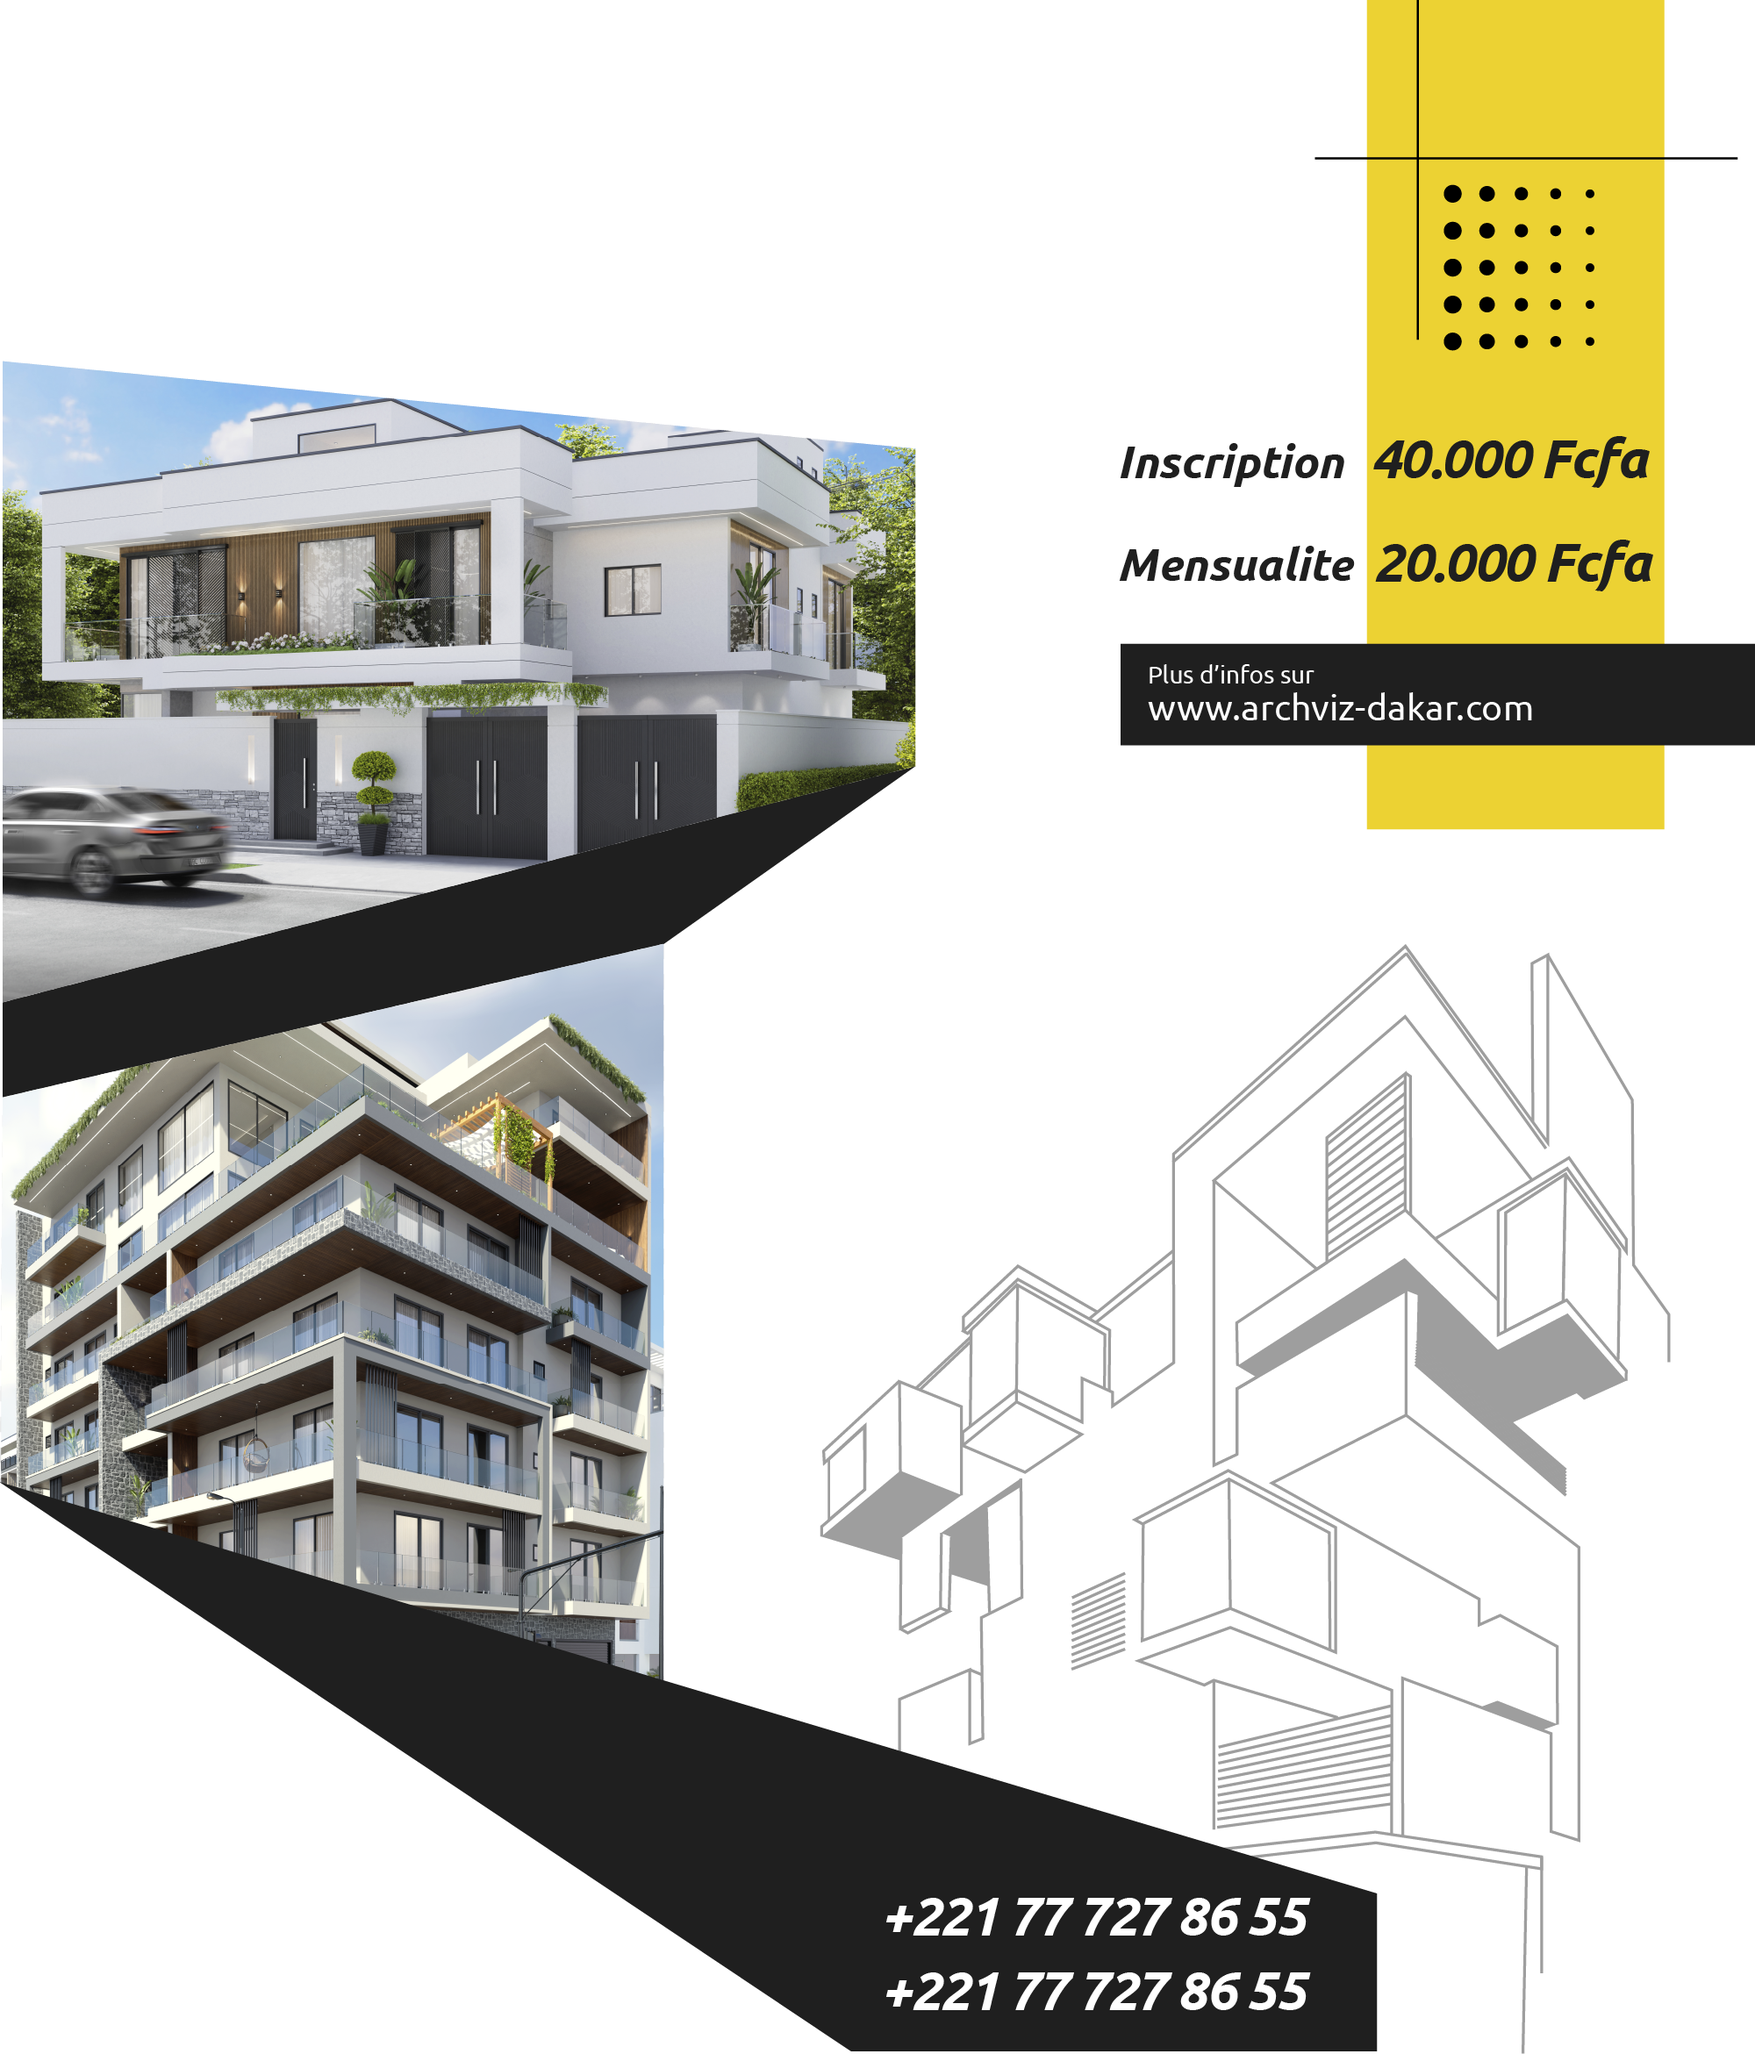
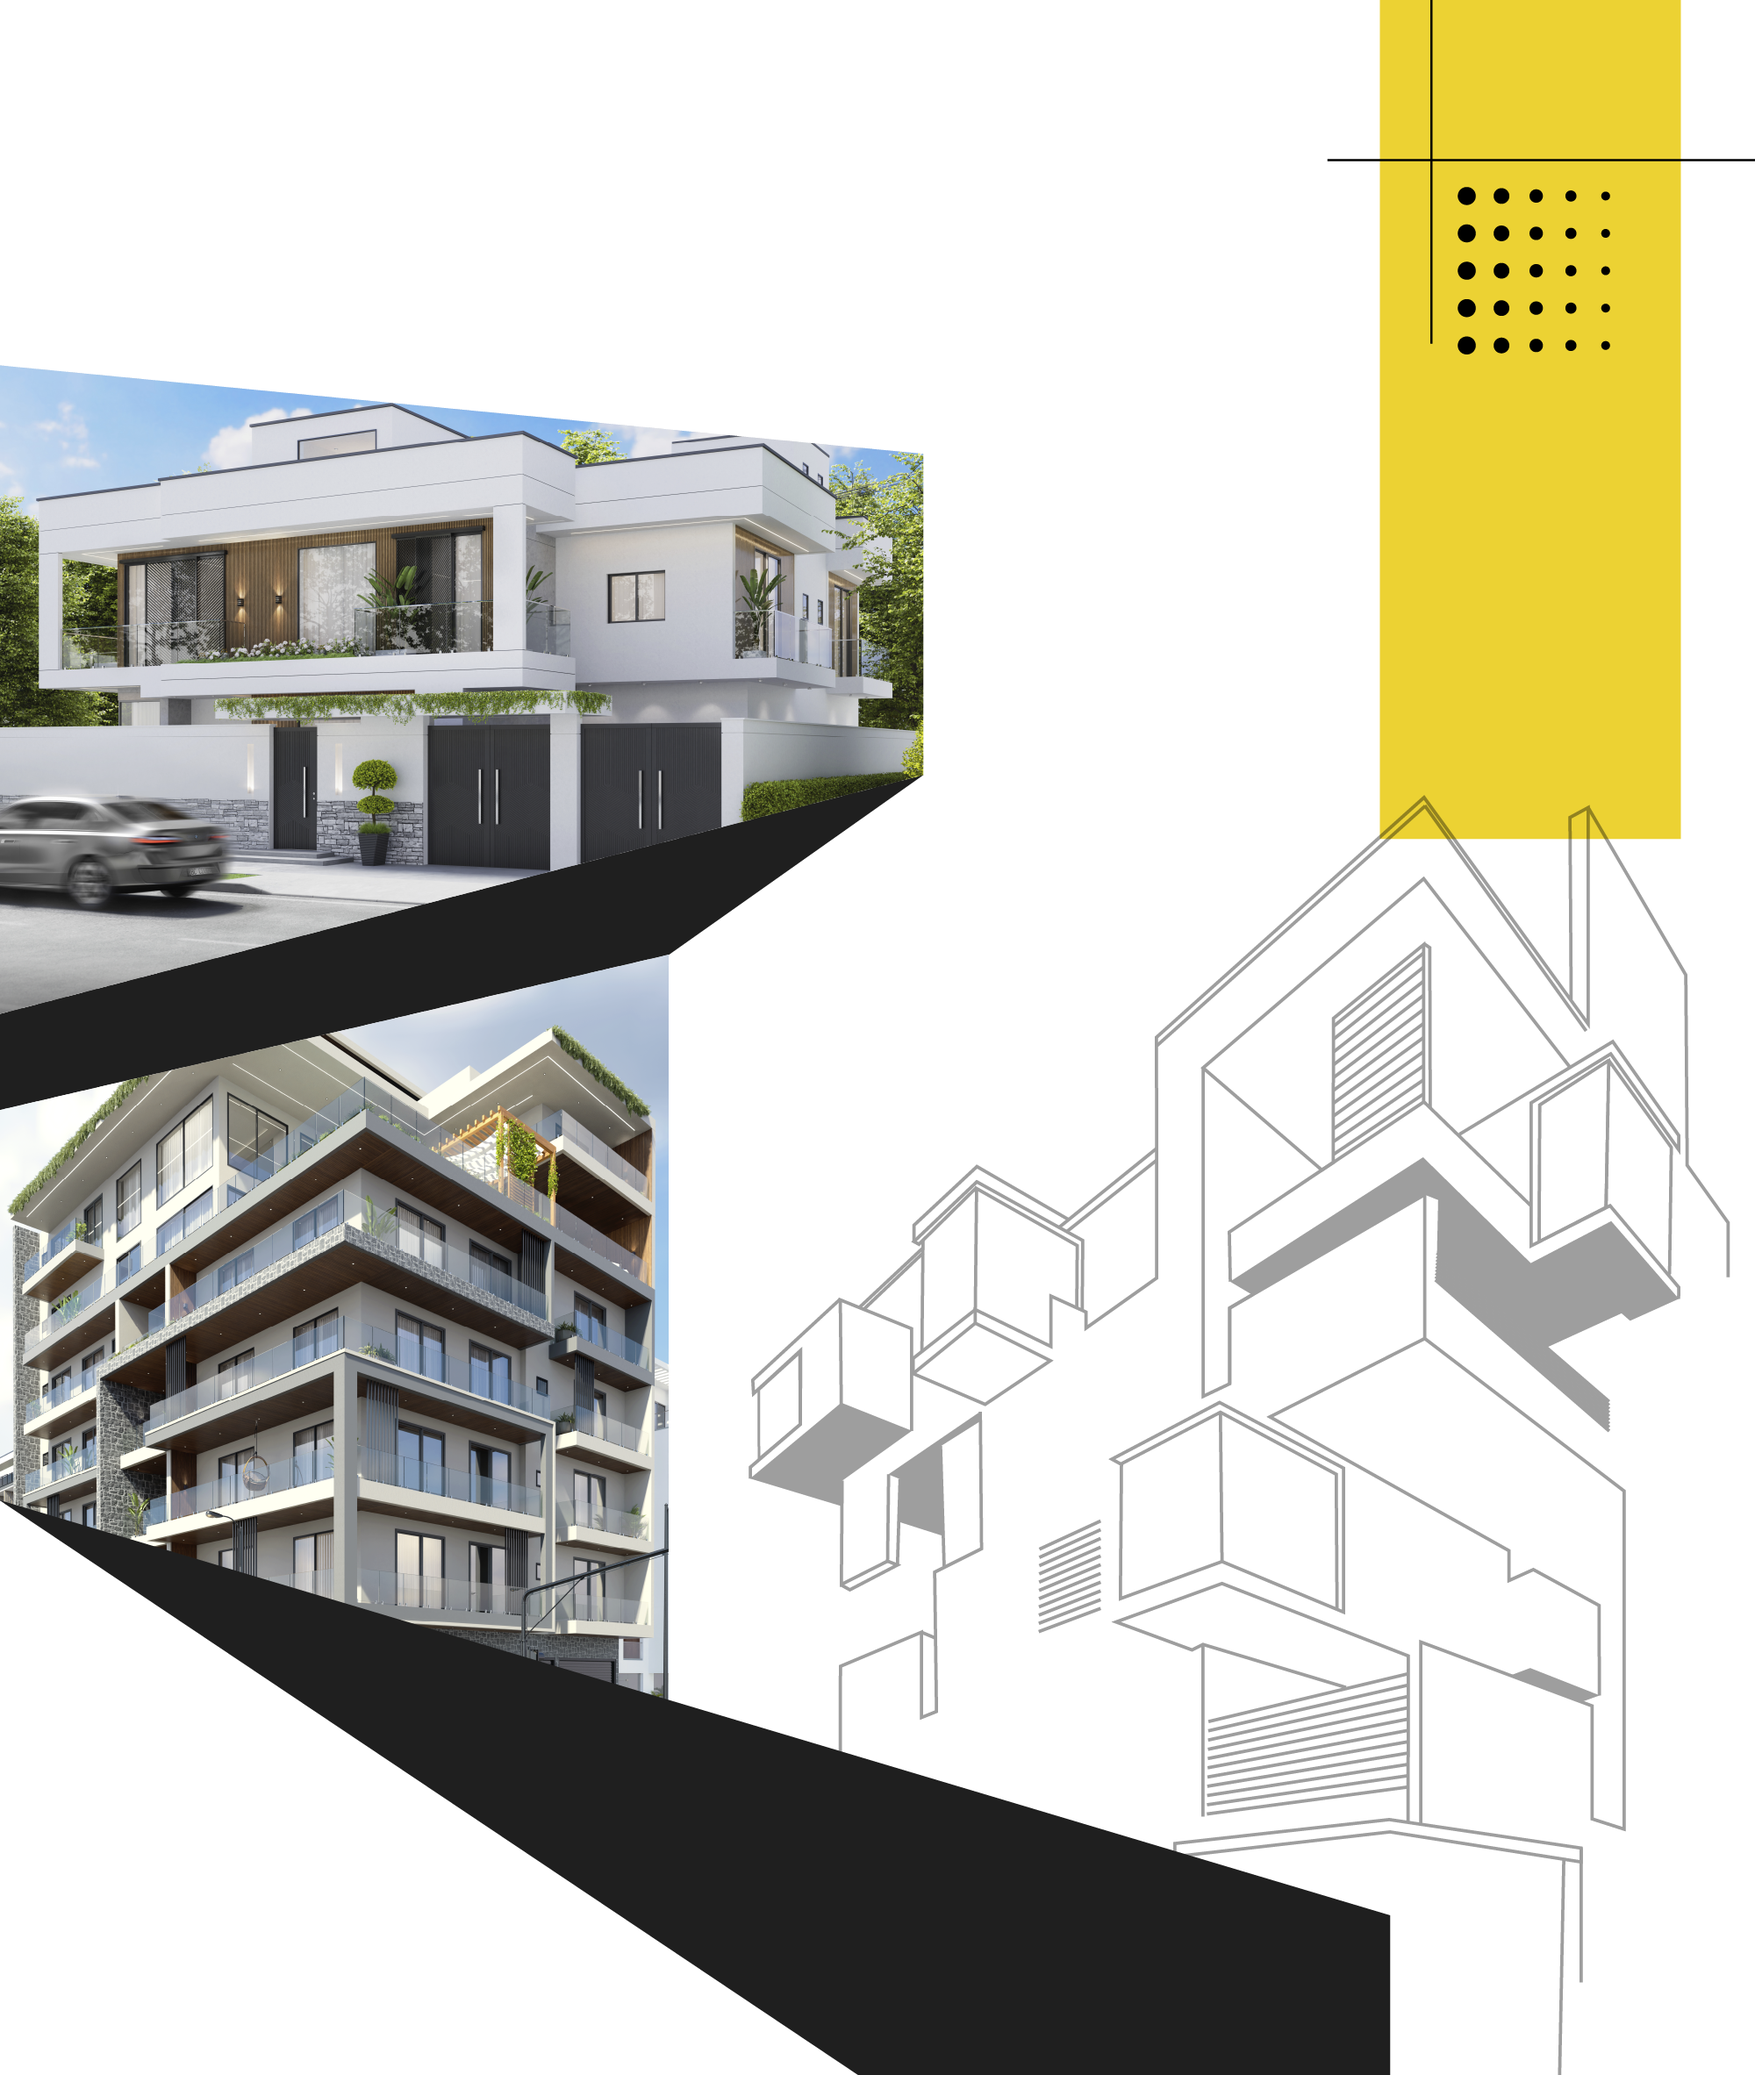
testing commit7

diff --git a/src/main/Pages/Projects/Formation.js b/src/main/Pages/Projects/Formation.js
@@ -36,25 +36,27 @@ function SmallHouse1({ }) {
 
                 <div className='formation_section_1'>
                     <img src={ImageFormation1} width='100%' />
-                    <h1 className='project_title'>
-                        Formation en 3D
+                     <h1 className='project_title'>
+                         Formation en 3D
+                     </h1>   
+
+                     <h1 className='project_title-2'>
+                         Architecture visualisation
                     </h1>
-                    <h1 className='project_title-2'>
-                        Architecture visualisation
-                    </h1>
-                    <pre className='prix prix-Ins' >
-                        <em>Inscription</em> 50.000 Fcfa
+
+                    <pre className='link'>
+                        <em>
+                        Voir Réalisation Sur
+                        </em>
+                        <br />
+                        www.archviz-dakar.com
                     </pre>
-                    <pre className='prix prix-Mens' >
-                        <em>Mensualite</em> 25.000 Fcfa
+                 
+                    <pre className='phone'>
+                        +221777278655 <br/>
+                        +221777278655
                     </pre>
-                    <pre className='Link' >
-                        <em>Voir Realisation</em> 25.000 Fcfa
-                    </pre>
-                    <pre className='Link' >
-                        +221 77 727 86 55
-                        +221 77 727 86 55
-                    </pre>
+
                 </div>
                 <div className='formation_section_2'>
                     <img src={ImageFormation2} width='100%' />
@@ -62,7 +64,7 @@ function SmallHouse1({ }) {
                         Développer <br/>
                         Vos Compétences <br/>
                         En Visualisation <br/>
-                         Architecturale 3D
+                        Architecturale 3D
                     </h1>
                     <p>
                         Une formation complete de 4 mois de comportent <br />
@@ -72,8 +74,7 @@ function SmallHouse1({ }) {
                     </p>
                 </div>
                 <div className='formation_section_3'>
-                    hgghh
-                          </div>
+                </div>
 
 
             </div>
@@ -85,3 +86,98 @@ function SmallHouse1({ }) {
 
 
 export default SmallHouse1;
+// import { React, useEffect, useState, Fragment } from 'react';
+
+// import ImageFormation1 from '../../Style/Images/SVG/Formation-1.png';
+// import ImageFormation2 from '../../Style/Images/SVG/Formation-2.png';
+
+// function SmallHouse1({ }) {
+//     useEffect(() => {
+//         let ToDisplayonBLoade = document.querySelector(".before-loader")
+//         ToDisplayonBLoade.style.display = 'none';
+
+//         let Page_slider = document.querySelector('.page_title_slider')
+//         Page_slider.style.opacity = `0`
+
+//         let AccueilContainer = document.querySelector(".App_container")
+//         AccueilContainer.scrollTop = 0;
+
+//         let hoverLoaderContainer = document.querySelector(".hover_loader_container")
+//         hoverLoaderContainer.style.display = 'flex';
+
+//         setTimeout(function () {
+//             hoverLoaderContainer.style.display = '';
+//         }, 1500);
+
+//         return () => {
+//             Page_slider.style.opacity = `1`;
+//             ToDisplayonBLoade.style.display = 'flex';
+//             AccueilContainer.scrollTop = 0;
+//         }
+//     }, []);
+
+
+//     return (
+//         <Fragment>
+
+//             <div className='Formation'>
+
+//                 <div className='formation_section_1'>
+//                     <img src={ImageFormation1} width='100%' />
+
+//                     <h1 className='project_title'>
+//                         Formation en 3D
+//                     </h1>   
+
+//                     <h1 className='project_title-2'>
+//                         Architecture visualisation
+//                     </h1>
+
+//                     <pre className='prix prix-Ins' >
+//                         <em>Inscription</em> 50.000 Fcfa
+//                     </pre>
+
+//                     <pre className='prix prix-Mens' >
+//                         <em>Mensualite</em> 25.000 Fcfa
+//                     </pre>
+
+//                     <pre className='Link' >
+//                         <em>Plus d’infos sur</em> <br/>
+//                         www.archviz-dakar.com
+//                     </pre>
+
+//                     <pre className='Phone' >
+//                         +221 77 727 86 55 <br/>
+//                         +221 77 727 86 55                                                                                                                                                                                                                                                                                                                                                                                                                                                                                                                                                                                                                                                                                                                                                                                                                                                                                                                                                                                                                                                                ;,
+//                     </pre>
+
+//                 </div>
+//                 <div className='formation_section_2'>
+//                     <img src={ImageFormation2} width='100%' />
+//                     <h1 className='project_title'>
+//                         Développer <br/>
+//                         Vos Compétences <br/>
+//                         En Visualisation <br/>
+//                         Architecturale 3D
+//                     </h1>
+//                     <p>
+//                         Une formation complete de 4 mois de comportent <br />
+//                         des cour live sur Discord un canale question<br />
+//                         ouvert h24 et de resouse gratuit (SetUp logiciels,<br />
+//                         Models 3D , HDRI , PBR . . .)
+//                     </p>
+//                 </div>
+//                 <div className='formation_section_3'>
+                  
+//                           </div>
+
+
+//             </div>
+//         </Fragment>
+//     );
+// }
+
+
+
+
+// export default SmallHouse1;

diff --git a/src/main/Style/_Formation.scss b/src/main/Style/_Formation.scss
@@ -7,58 +7,61 @@
 .Formation {
     display: grid;
 
-    grid-template-rows: auto autoa 100vh;
+    grid-template-rows: auto auto 100vh;
     grid-template-columns: 1fr ;
-    // padding-left: 5vw;
     padding-right: 5vw;
-    // padding-top: 2em;
-    // background-color: salmon;
-    //   @include cent();
 
     .formation_section_1{
-          grid-column: 1;
-  grid-row: 1;
-      
-  font-family: "Ubuntu", sans-serif;
-  font-style: italic;
-        .project_title{
-             font-weight: 900;
+    grid-column: 1;
+    grid-row: 1;
+    font-family: "Ubuntu", sans-serif;
+    font-style: italic;   
+    .project_title{
+    font-weight: 900;
     position: absolute;
-    // width: 50%;
     font-size: 7.5vw;
     left: 5%;
     top: 1.3%;
+
 }
 
                     .project_title-2{
              font-weight: 500;
     position: absolute;
-    // width: 50%;
-    font-size: 4vw;
+    font-size: 3.8vw;
     left: 5%;
     top: 8%;
                     }
-                    .prix{
-                          font-family: "Ubuntu", sans-serif;
-  font-style: italic;
-             font-weight: 900;
+ .phone{
+       font-family: "Ubuntu", sans-serif;
+    font-style: italic;  
+    color: #f1f1f1;
     position: absolute;
+        font-weight: 900;
     font-size: 2.9vw;
-    letter-spacing: -0vw;
-    color: red;
+    left: 50%;
+    top: 91.7%;
+ }
+                    
+ .link{
+    font-family: "Ubuntu", sans-serif;
+    font-style: italic;  
+    color: #f1f1f1;
+    // width: 30vw;
+    position: absolute;
+    font-weight: 500;
+    font-size: 2.1vw;
+    left: 64%;
+    top: 31.2%;
+    background-color: #1F1F1F;
+    padding-left: 1vw;
+    padding-right: 9.5vw;
+    padding-bottom: 0.4vw;
     em{
-        font-size: 2.5vw;
-        
-}
-                    }
-                    .prix-Ins{
-    left: 64.3%;
-    top: 21%;
-                    }
-                    .prix-Mens{
-  left: 64%;
-    top: 26%;
-                    }
+        font-size: 1.5vw;
+
+    }
+ }
                     
     }
 
@@ -72,7 +75,6 @@
              font-weight: 900;
              line-height: 90%;
     position: absolute;
-    // width: 50%;
     font-size: 4.5vw;
     left: 15%;
     top: 13%;
@@ -83,7 +85,6 @@ p{
              font-weight: 900;
              line-height: 100%;
     position: absolute;
-    // width: 50%;
     font-size: 1.6vw;
     left: 15%;
     top: 42%;
@@ -110,9 +111,6 @@ p{
     .Formation {
         padding-left: 0vw;
         padding-right: 0vw;
-
-       
-
     }
 
 }

diff --git a/src/main/Style/Style.css b/src/main/Style/Style.css
@@ -3433,7 +3433,7 @@
 }
 .Formation {
   display: grid;
-  grid-template-rows: auto autoa 100vh;
+  grid-template-rows: auto auto 100vh;
   grid-template-columns: 1fr;
   padding-right: 5vw;
 }
@@ -3453,29 +3453,36 @@
 .Formation .formation_section_1 .project_title-2 {
   font-weight: 500;
   position: absolute;
-  font-size: 4vw;
+  font-size: 3.8vw;
   left: 5%;
   top: 8%;
 }
-.Formation .formation_section_1 .prix {
+.Formation .formation_section_1 .phone {
   font-family: "Ubuntu", sans-serif;
   font-style: italic;
-  font-weight: 900;
+  color: #f1f1f1;
   position: absolute;
+  font-weight: 900;
   font-size: 2.9vw;
-  letter-spacing: 0vw;
-  color: red;
+  left: 50%;
+  top: 91.7%;
 }
-.Formation .formation_section_1 .prix em {
-  font-size: 2.5vw;
-}
-.Formation .formation_section_1 .prix-Ins {
-  left: 64.3%;
-  top: 21%;
-}
-.Formation .formation_section_1 .prix-Mens {
+.Formation .formation_section_1 .link {
+  font-family: "Ubuntu", sans-serif;
+  font-style: italic;
+  color: #f1f1f1;
+  position: absolute;
+  font-weight: 500;
+  font-size: 2.1vw;
   left: 64%;
-  top: 26%;
+  top: 31.2%;
+  background-color: #1F1F1F;
+  padding-left: 1vw;
+  padding-right: 9.5vw;
+  padding-bottom: 0.4vw;
+}
+.Formation .formation_section_1 .link em {
+  font-size: 1.5vw;
 }
 .Formation .formation_section_2 {
   grid-column: 1;
